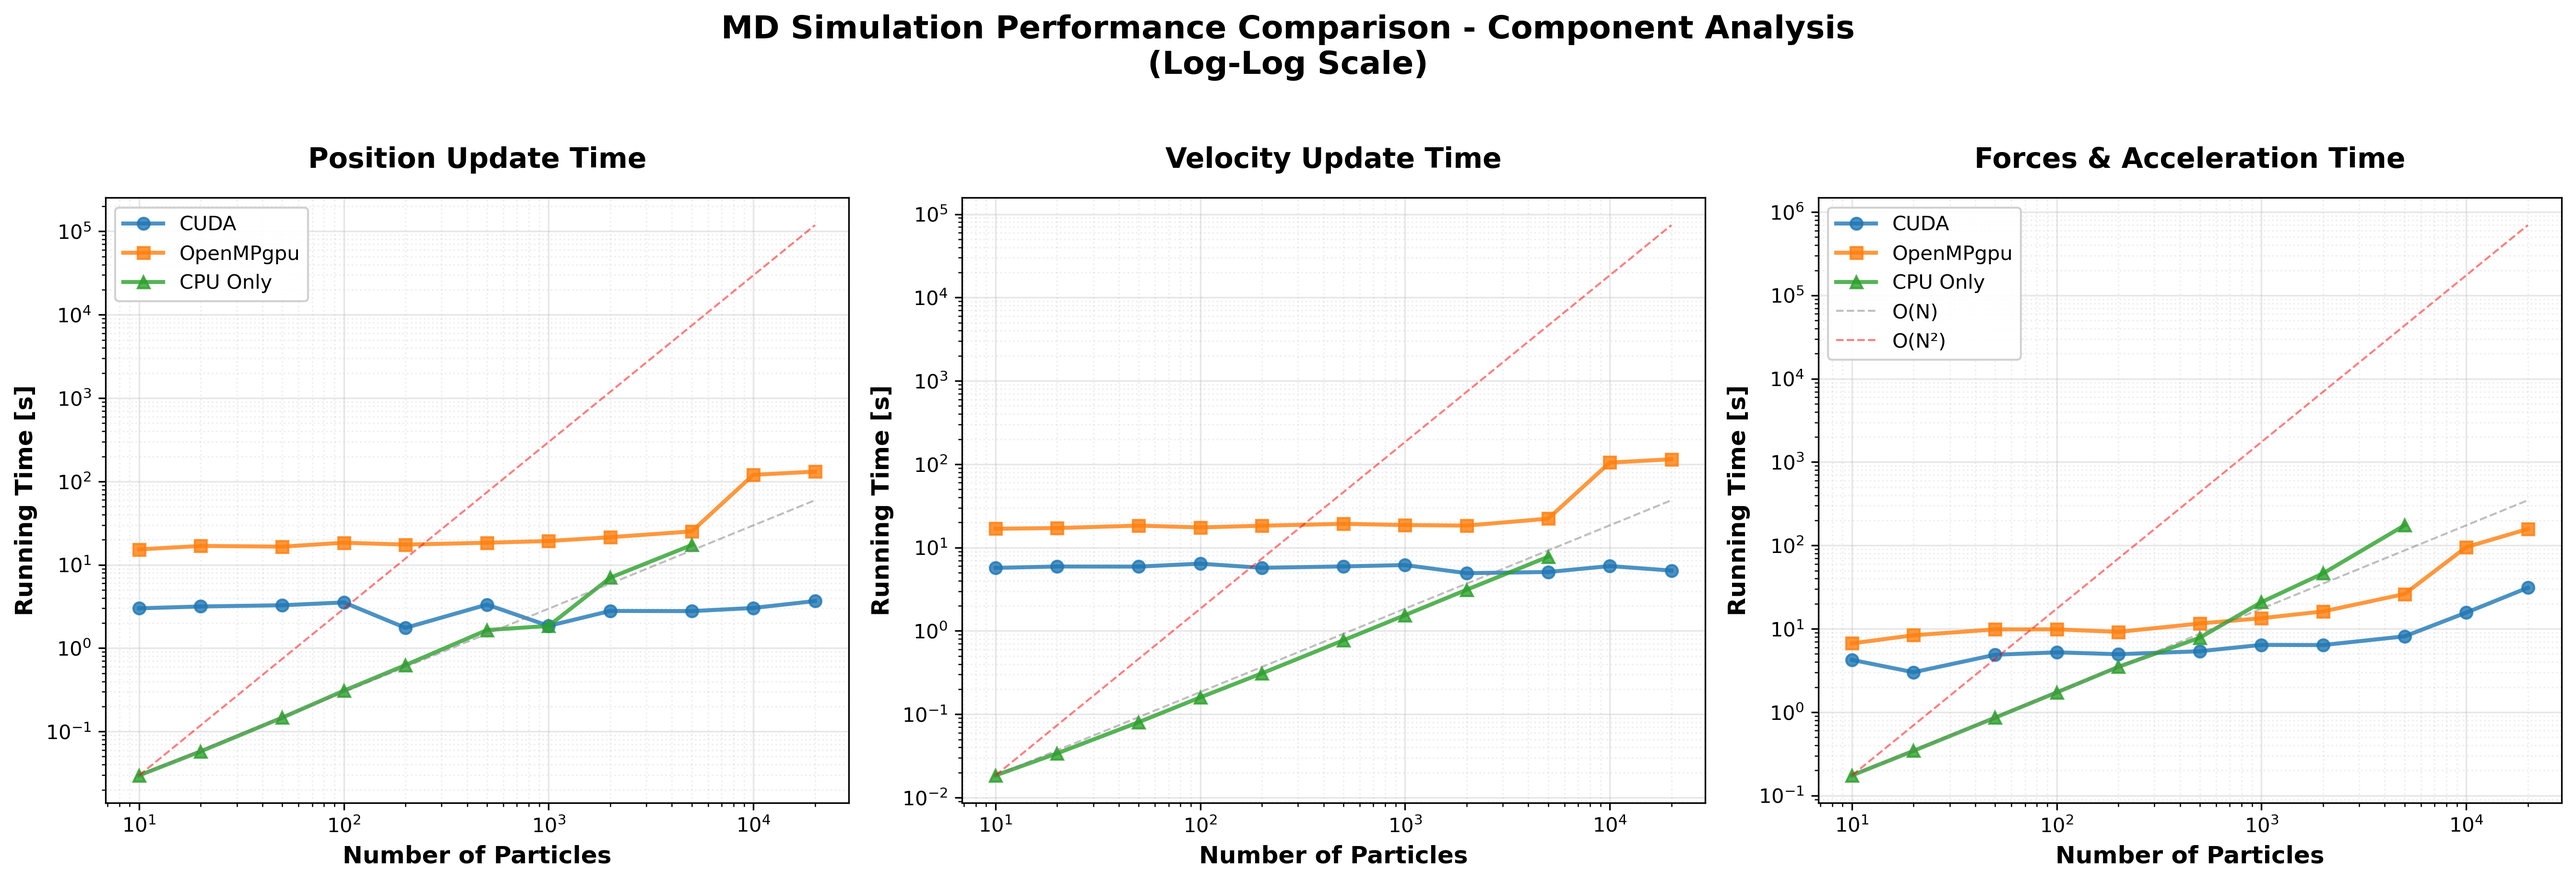
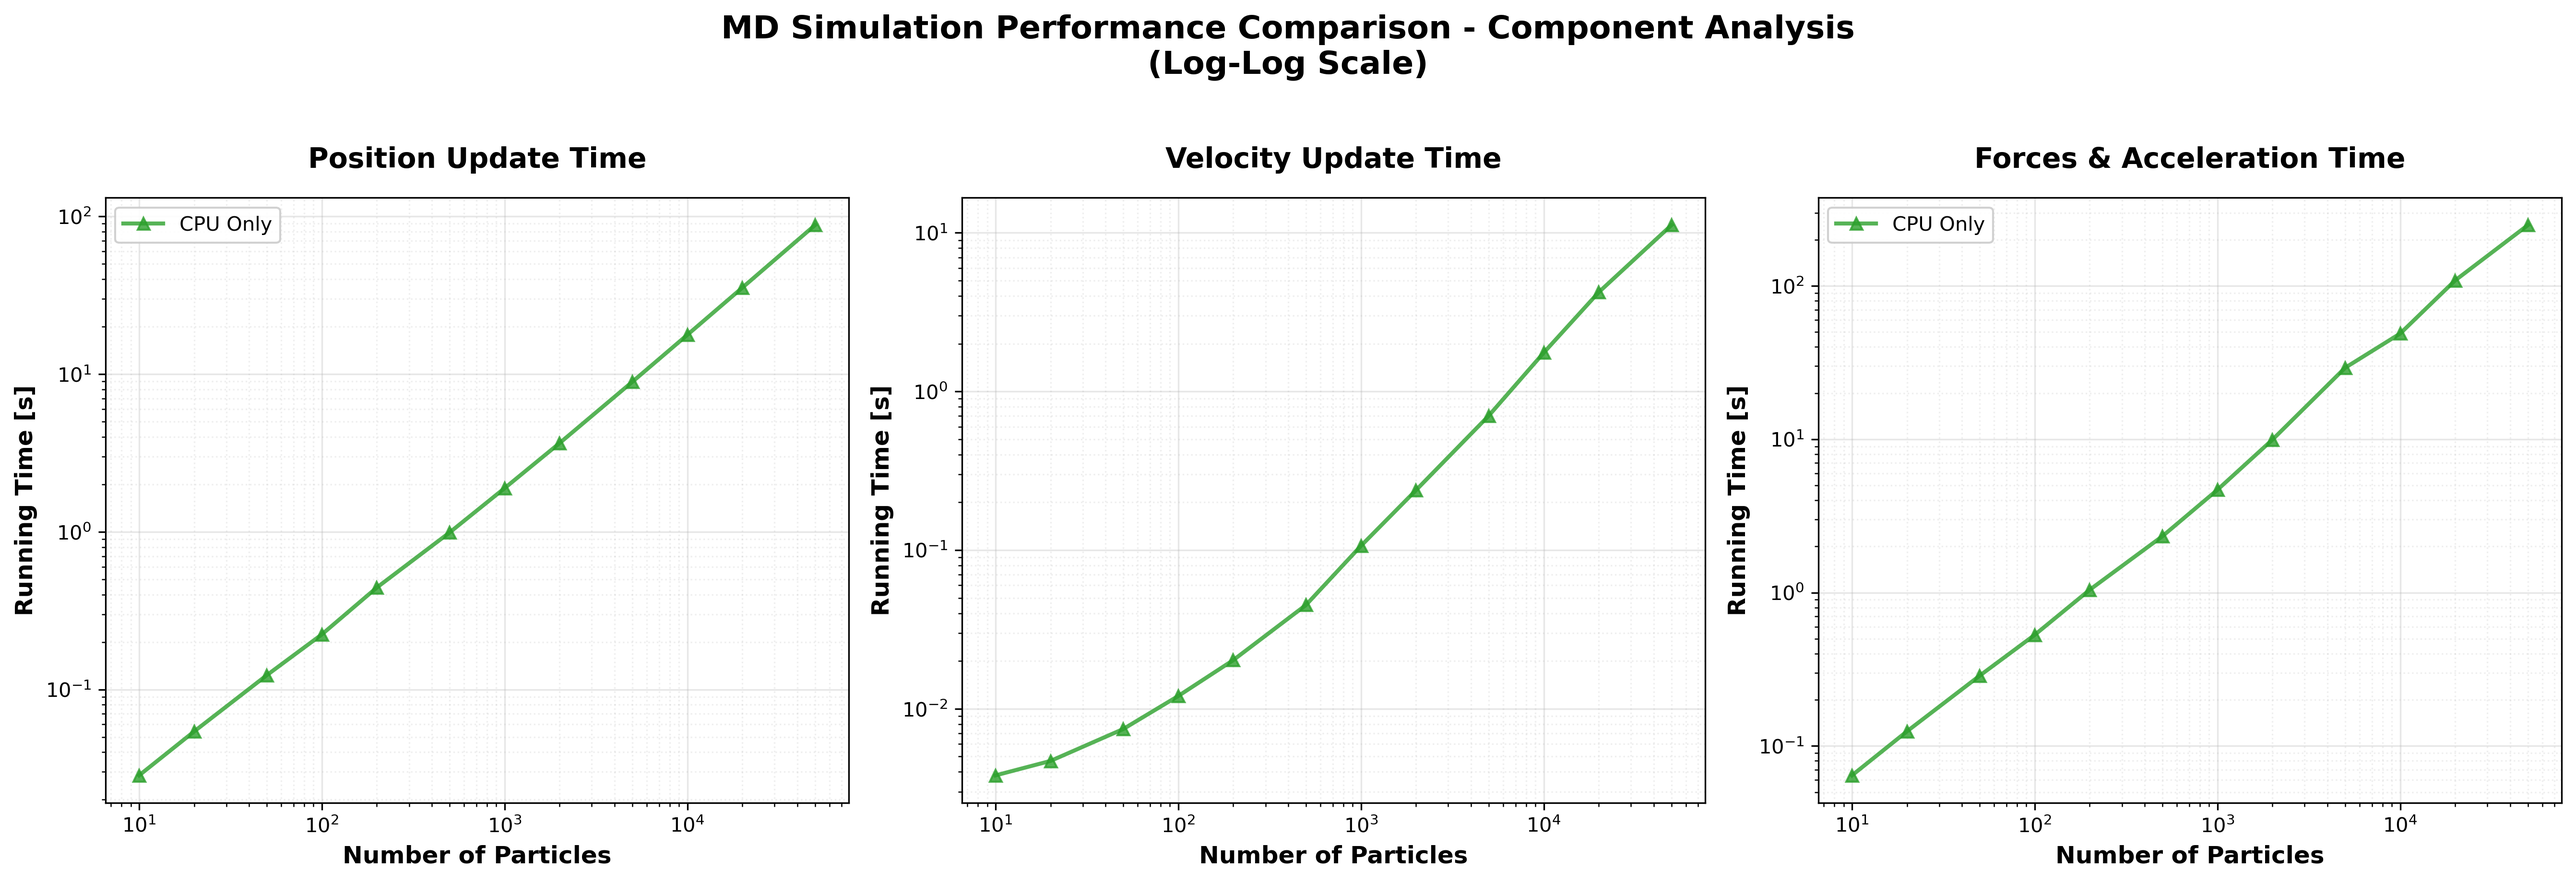
Update to Performance comparision scripts and results

diff --git a/Exercise 3/performance_comparision.py b/Exercise 3/performance_comparision.py
@@ -52,6 +52,26 @@ def load_performance_data(file_path):
         print(f"File not found: {file_path}")
         return None
 
+# File path constants for all implementations
+CUDA_LABEL = 'CUDA'
+CUDA_FILE = 'cuda/cuda_performance_results.txt'
+OPENMPGPU_LABEL = 'OpenMPgpu'
+OPENMPGPU_FILE = 'omp/ompGPU_performance_results_alex.txt'
+OPENMPCPU_LABEL = 'OpenMPcpu'
+OPENMPCPU_FILE = 'omp_CPU/ompCPU_performance_results_fritz.txt'
+CPU_ONLY_LABEL = 'CPU Only'
+CPU_ONLY_FILE = 'decudafied/decudafied_performance_results.txt'
+
+# Enable/disable which results to plot
+cuda = False
+openmpgpu = True
+openmpcpu = True
+cpu_only = True
+
+# Enable/disable reference lines
+show_on = False
+show_on2 = False
+
 def create_performance_plot():
     """
     Create performance comparison plot with logarithmic axes for total time
@@ -60,12 +80,16 @@ def create_performance_plot():
     output_dir = Path('performance_plots')
     output_dir.mkdir(exist_ok=True)
     
-    # Define file paths
-    files = {
-        'CUDA': 'cuda/cuda_performance_results.txt',
-        'OpenMPgpu': 'omp/ompGPU_performance_results.txt',
-        'CPU Only': 'decudafied/decudafied_performance_results.txt'
-    }
+    # Dynamisch die zu plottenden Dateien wählen
+    files = {}
+    if cuda:
+        files[CUDA_LABEL] = CUDA_FILE
+    if openmpgpu:
+        files[OPENMPGPU_LABEL] = OPENMPGPU_FILE
+    if openmpcpu:
+        files[OPENMPCPU_LABEL] = OPENMPCPU_FILE
+    if cpu_only:
+        files[CPU_ONLY_LABEL] = CPU_ONLY_FILE
     
     # Load data from all files
     data = {}
@@ -82,8 +106,8 @@ def create_performance_plot():
     plt.figure(figsize=(12, 8))
     
     # Colors for different versions
-    colors = {'CUDA': '#1f77b4', 'OpenMPgpu': '#ff7f0e', 'CPU Only': '#2ca02c'}
-    markers = {'CUDA': 'o', 'OpenMPgpu': 's', 'CPU Only': '^'}
+    colors = {'CUDA': '#1f77b4', 'OpenMPgpu': '#ff7f0e', 'OpenMPcpu': '#9467bd', 'CPU Only': '#2ca02c'}
+    markers = {'CUDA': 'o', 'OpenMPgpu': 's', 'OpenMPcpu': 'D', 'CPU Only': '^'}
     
     # Plot data for each version
     for label, df in data.items():
@@ -136,14 +160,14 @@ def create_performance_plot():
     # Add reference lines for scaling analysis
     if data:
         x_ref = np.array([10, 50000])
-        
-        # O(N) reference
-        y_on = x_ref * (1.0 / 10)  # Normalized to pass through a reasonable point
-        plt.loglog(x_ref, y_on, '--', color='gray', alpha=0.6, linewidth=1, label='O(N)')
-        
-        # O(N²) reference
-        y_on2 = (x_ref ** 2) * (1.0 / 100)  # Normalized
-        plt.loglog(x_ref, y_on2, '--', color='red', alpha=0.6, linewidth=1, label='O(N²)')
+        if show_on:
+            # O(N) reference
+            y_on = x_ref * (1.0 / 10)  # Normalized to pass through a reasonable point
+            plt.loglog(x_ref, y_on, '--', color='gray', alpha=0.6, linewidth=1, label='O(N)')
+        if show_on2:
+            # O(N²) reference
+            y_on2 = (x_ref ** 2) * (1.0 / 100)  # Normalized
+            plt.loglog(x_ref, y_on2, '--', color='red', alpha=0.6, linewidth=1, label='O(N²)')
     
     plt.legend(fontsize=12, loc='upper left', framealpha=0.9)
     
@@ -166,12 +190,16 @@ def create_detailed_performance_plots():
     output_dir = Path('performance_plots')
     output_dir.mkdir(exist_ok=True)
     
-    # Define file paths
-    files = {
-        'CUDA': 'cuda/cuda_performance_results.txt',
-        'OpenMPgpu': 'omp/ompGPU_performance_results.txt',
-        'CPU Only': 'decudafied/decudafied_performance_results.txt'
-    }
+    # Dynamisch die zu plottenden Dateien wählen
+    files = {}
+    if cuda:
+        files[CUDA_LABEL] = CUDA_FILE
+    if openmpgpu:
+        files[OPENMPGPU_LABEL] = OPENMPGPU_FILE
+    if openmpcpu:
+        files[OPENMPCPU_LABEL] = OPENMPCPU_FILE
+    if cpu_only:
+        files[CPU_ONLY_LABEL] = CPU_ONLY_FILE
     
     # Load data from all files
     data = {}
@@ -192,8 +220,8 @@ def create_detailed_performance_plots():
     }
     
     # Colors and markers
-    colors = {'CUDA': '#1f77b4', 'OpenMPgpu': '#ff7f0e', 'CPU Only': '#2ca02c'}
-    markers = {'CUDA': 'o', 'OpenMPgpu': 's', 'CPU Only': '^'}
+    colors = {'CUDA': '#1f77b4', 'OpenMPgpu': '#ff7f0e', 'OpenMPcpu': '#9467bd', 'CPU Only': '#2ca02c'}
+    markers = {'CUDA': 'o', 'OpenMPgpu': 's', 'OpenMPcpu': 'D', 'CPU Only': '^'}
     
     # Create figure with subplots
     fig, axes = plt.subplots(1, 3, figsize=(18, 6))
@@ -232,27 +260,26 @@ def create_detailed_performance_plots():
         if data:
             all_particles = []
             all_times = []
-            
             for df in data.values():
                 if component in df.columns:
                     all_particles.extend(df['Particles'].tolist())
                     all_times.extend(df[component].tolist())
-            
             if all_particles and all_times:
                 x_ref = np.array([min(all_particles), max(all_particles)])
-                
-                # O(N) reference
-                y_on = x_ref * (min(all_times) / min(all_particles))
-                ax.loglog(x_ref, y_on, '--', color='gray', alpha=0.5, linewidth=1)
-                
-                # O(N²) reference  
-                y_on2 = (x_ref ** 2) * (min(all_times) / (min(all_particles) ** 2))
-                ax.loglog(x_ref, y_on2, '--', color='red', alpha=0.5, linewidth=1)
-                
+                if show_on:
+                    # O(N) reference
+                    y_on = x_ref * (min(all_times) / min(all_particles))
+                    ax.loglog(x_ref, y_on, '--', color='gray', alpha=0.5, linewidth=1)
+                if show_on2:
+                    # O(N²) reference  
+                    y_on2 = (x_ref ** 2) * (min(all_times) / (min(all_particles) ** 2))
+                    ax.loglog(x_ref, y_on2, '--', color='red', alpha=0.5, linewidth=1)
                 # Add labels only on the last subplot
                 if idx == 2:
-                    ax.loglog([], [], '--', color='gray', alpha=0.5, linewidth=1, label='O(N)')
-                    ax.loglog([], [], '--', color='red', alpha=0.5, linewidth=1, label='O(N²)')
+                    if show_on:
+                        ax.loglog([], [], '--', color='gray', alpha=0.5, linewidth=1, label='O(N)')
+                    if show_on2:
+                        ax.loglog([], [], '--', color='red', alpha=0.5, linewidth=1, label='O(N²)')
                     ax.legend(fontsize=10, loc='upper left', framealpha=0.9)
     
     # Adjust layout
@@ -270,11 +297,15 @@ def print_performance_summary():
     """
     Print a summary of performance data
     """
-    files = {
-        'CUDA': 'cuda/cuda_performance_results.txt',
-        'OpenMPgpu': 'omp/ompGPU_performance_results.txt',
-        'CPU Only': 'decudafied/decudafied_performance_results.txt'
-    }
+    files = {}
+    if cuda:
+        files[CUDA_LABEL] = CUDA_FILE
+    if openmpgpu:
+        files[OPENMPGPU_LABEL] = OPENMPGPU_FILE
+    if openmpcpu:
+        files[OPENMPCPU_LABEL] = OPENMPCPU_FILE
+    if cpu_only:
+        files[CPU_ONLY_LABEL] = CPU_ONLY_FILE
     
     print("\n" + "="*60)
     print("PERFORMANCE SUMMARY")
